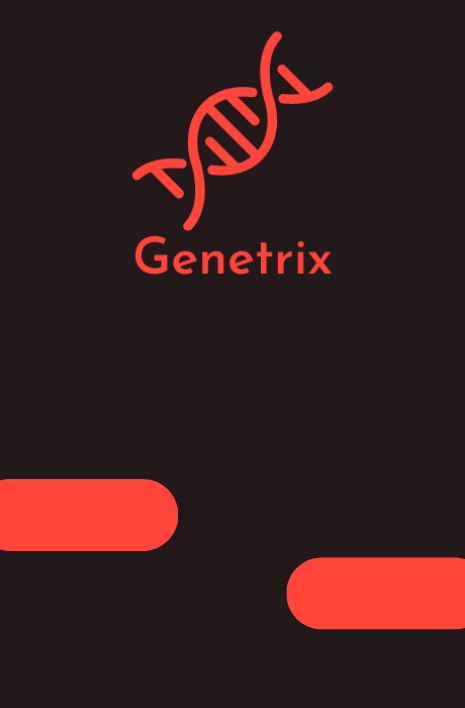
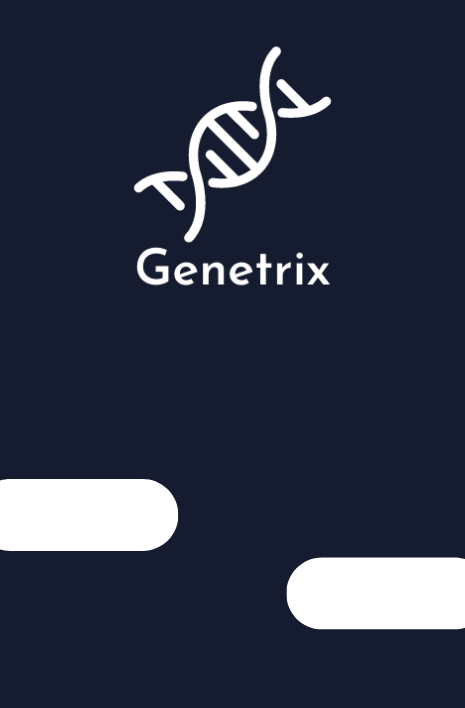
commit

Changed region(s): [[0.271, 0.0311, 0.7226, 0.404], [0.6022, 0.7768, 1.0, 0.9011], [0.0, 0.6525, 0.3914, 0.7768]]

diff --git a/Application 2/UI.py b/Application 2/UI.py
@@ -43,7 +43,7 @@ class LabeledEntry(LabelFrame):
 		self.ico = PhotoImage(file=imglcn)
 		self.imglbl = Label(self, bd=0, image=self.ico, **kwargs)
 
-		self.entry = Entry(self, bd=0, width=35, font=('', 12), textvariable=self.Entry_var, bg='#221a1a',fg='white')
+		self.entry = Entry(self, bd=0, width=35, font=('', 12), textvariable=self.Entry_var, bg='#161C30',fg='white')
 		# frame draws a line just below entry
 		self.line = Frame(self, bd=0, width=50, height=2, bg='black')
 		# id any error occurs use this to deiplay
@@ -84,9 +84,9 @@ class LoginPage(Frame):
 		Label(self, image=self.bg).pack()
 
 		# take id input and password
-		self._id = LabeledEntry(self,'Your first name here.', '', 'users.png', **{'bg': '#221a1a'})
+		self._id = LabeledEntry(self,'Your first name here.', '', 'users.png', **{'bg': '#161C30'})
 		self._id.place(x=40, y=300)
-		self.psw = LabeledEntry(self, 'Password', '', 'users.png', **{'bg': '#221a1a'})
+		self.psw = LabeledEntry(self, 'Password', '', 'users.png', **{'bg': '#161C30'})
 		self.psw.entry['show'] = '*'  # hiide typing charcters
 		self.psw.place(x=40, y=390)
 		# show password
@@ -95,10 +95,10 @@ class LoginPage(Frame):
 		self.psw.entry.bind("<ButtonRelease-3>", hidePassword)
 		# login button
 
-		self.login_btn = Button(self, text='Login', font=('arial', 22), width=9, fg='#221a1a', bg='#ff443a',activebackground='#ff443a', bd=0)
+		self.login_btn = Button(self, text='Login', font=('arial', 22), width=9, fg='#161C30', bg='#ffffff',activebackground='#ffffff', bd=0)
 		self.login_btn.place(x=3, y=490)
 		# register button
-		self.register_btn = Button(self, text='Register', font=('arial', 22), width=9, fg='#221a1a', bg='#ff443a',activebackground='#ff443a', bd=0)
+		self.register_btn = Button(self, text='Register', font=('arial', 22), width=9, fg='#161C30', bg='#ffffff',activebackground='#ffffff', bd=0)
 		self.register_btn.place(x=305, y=568)
 
 # register page interface for the app
@@ -115,7 +115,7 @@ class RegisterPage(Frame):
 		Label(self, image=self.bg).pack()
 
 		# take id input and password
-		default = {'bg': '#221a1a'}
+		default = {'bg': '#161C30'}
 		self.fname = LabeledEntry(self, 'First name', '', 'users.png', **default)
 		# lower the width of entry
 		self.fname.entry['width'] = 15
@@ -142,10 +142,10 @@ class RegisterPage(Frame):
 		self.retype_psw.entry.bind("<ButtonRelease-3>", hidePassword)
 
 		# login button
-		self.login_btn = Button(self, text='Login', font=('arial', 22), width=9, fg='#221a1a', bg='#ff443a',activebackground='#ff443a', bd=0)
+		self.login_btn = Button(self, text='Login', font=('arial', 22), width=9, fg='#161C30', bg='#ffffff',activebackground='#ffffff', bd=0)
 		self.login_btn.place(x=3, y=490)
 		# register button
-		self.register_btn = Button(self, text='Register', font=('arial', 22), width=9, fg='#221a1a', bg='#ff443a',activebackground='#ff443a', bd=0)
+		self.register_btn = Button(self, text='Register', font=('arial', 22), width=9, fg='#161C30', bg='#ffffff',activebackground='#ffffff', bd=0)
 		self.register_btn.place(x=305, y=568)
 
 	def on_register(self):
@@ -247,15 +247,15 @@ def Analysis():
 	root = Tk()
 	root.geometry("465x708")
 	root.resizable(False, False)
-	root["bg"] = "#221a1a"
+	root["bg"] = "#161C30"
 	root.title("Main Menue")
 
 	Label(root, text="Welcome To Genetrix", bg="black", fg="white", font=("monospace", 20, "bold"), width=40, bd=4,relief=RIDGE).pack(side=TOP, fill=X)
-	customtkinter.CTkButton(root, text="PREDICTED DATA", bd=0, height=50, width=285, text_color="#221a1a",fg_color="#ff443a", text_font=('arial', 22,)).place(x=100, y=170)
-	customtkinter.CTkButton(root, text="CLUSTERED DATA", bd=0, height=50, width=60, text_color="#221a1a",fg_color="#ff443a", text_font=('arial', 22)).place(x=100, y=240)
-	customtkinter.CTkButton(root, text="DATA ANALYSIS", bd=0, height=50, width=284, text_color="#221a1a",fg_color="#ff443a", text_font=('arial', 22),command=Graphs).place(x=100, y=310)
-	customtkinter.CTkButton(root, text="ABOUT", bd=0, height=50, width=282, text_color="#221a1a", fg_color="#ff443a",text_font=('arial', 22), command=nextwindow).place(x=100, y=380)
-	customtkinter.CTkButton(root, text="EXIT", bd=0, height=50, width=282, text_color="#221a1a", fg_color="#ff443a",text_font=('arial', 22), command=root.destroy).place(x=100, y=450)
+	customtkinter.CTkButton(root, text="PREDICTED DATA", bd=0, height=50, width=285, text_color="#161C30",fg_color="#ffffff", text_font=('arial', 22,)).place(x=100, y=170)
+	customtkinter.CTkButton(root, text="CLUSTERED DATA", bd=0, height=50, width=60, text_color="#161C30",fg_color="#ffffff", text_font=('arial', 22)).place(x=100, y=240)
+	customtkinter.CTkButton(root, text="DATA ANALYSIS", bd=0, height=50, width=284, text_color="#221a1a",fg_color="#ffffff", text_font=('arial', 22),command=Graphs).place(x=100, y=310)
+	customtkinter.CTkButton(root, text="ABOUT", bd=0, height=50, width=282, text_color="#161C30", fg_color="#ffffff",text_font=('arial', 22), command=nextwindow).place(x=100, y=380)
+	customtkinter.CTkButton(root, text="EXIT", bd=0, height=50, width=282, text_color="#161C30", fg_color="#ffffff",text_font=('arial', 22), command=root.destroy).place(x=100, y=450)
 
 	root.mainloop()
 
@@ -265,7 +265,7 @@ def Graphs():
 	root2 = Tk()
 	root2.geometry("540x708")
 	root2.resizable(False, False)
-	root2["bg"] = "#221a1a"
+	root2["bg"] = "#161C30"
 	root2.title("Genetrix")
 
 	Label(root2, text="Welcome To Genetrix Plots", bg="black", fg="white", font=("monospace", 20, "bold"), width=40, bd=4,relief=RIDGE).pack(side=TOP, fill=X)
